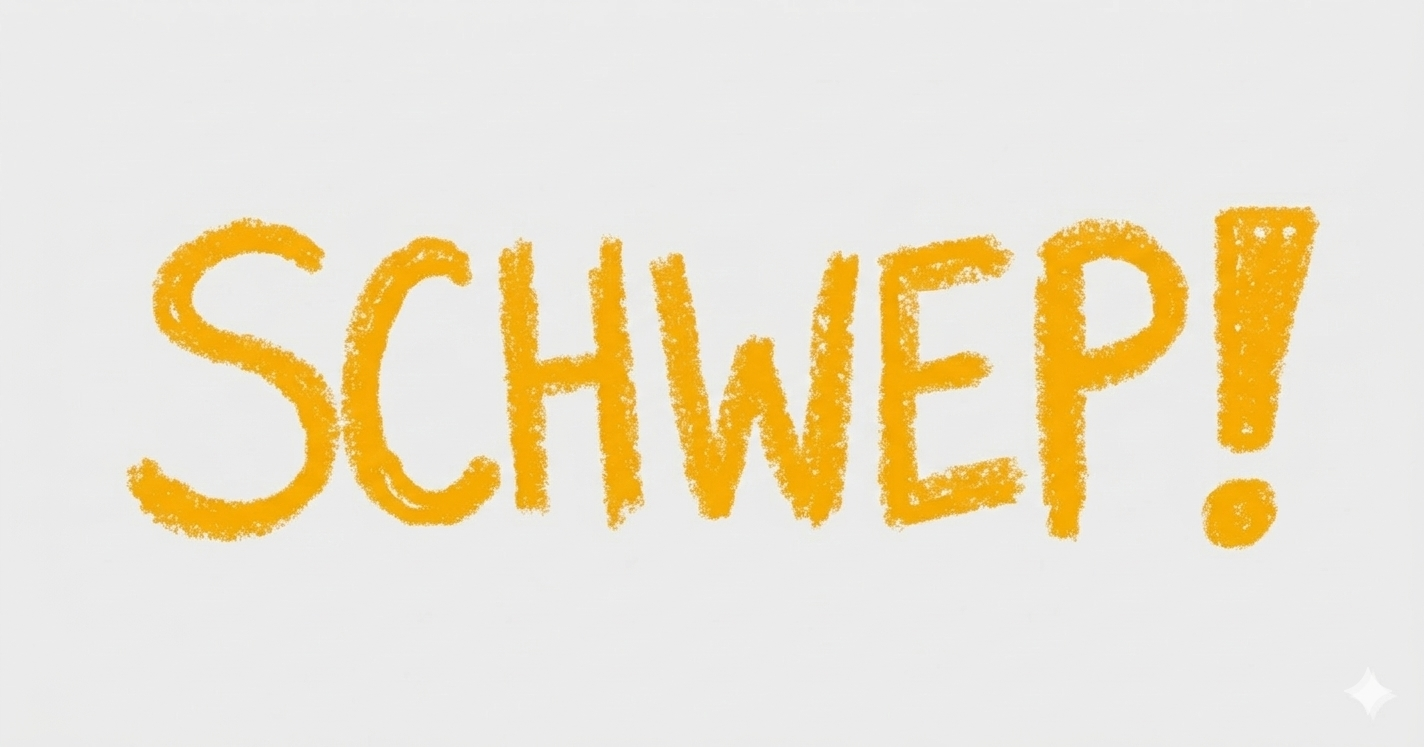
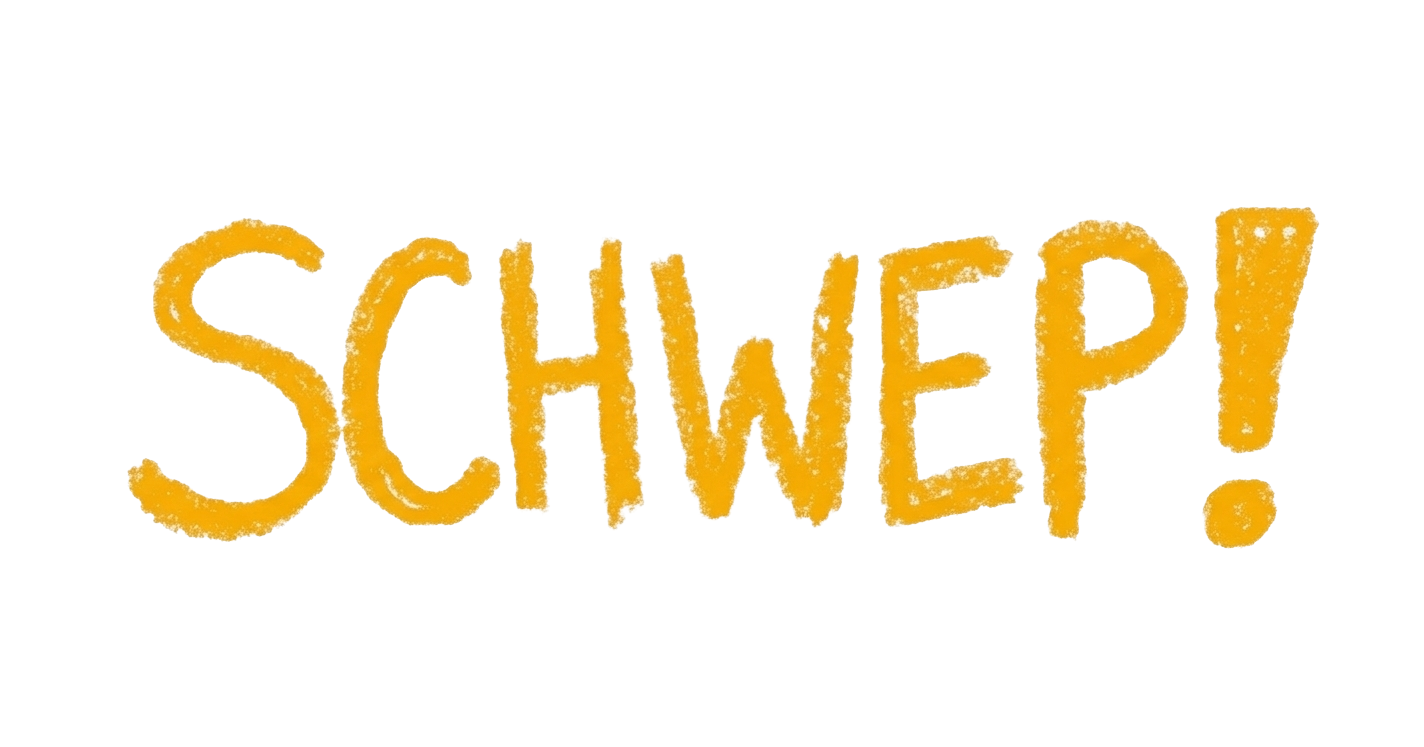
cant remember

diff --git a/frontend/index.html b/frontend/index.html
@@ -12,8 +12,8 @@
 <body>
   <!-- ═══ NAV ═══ -->
   <nav>
-    <div class="nav-logo">sch<span>w</span>ep</div>
-    <a class="nav-cta" href="#cta">Try It Free →</a>
+    <div class="nav-logo"><img src="assets/images/schwep.png" alt="schwep"></div>
+    <a class="nav-cta" href="signup.html">Try It Free →</a>
   </nav>
 
   <!-- ═══ HERO ═══ -->
@@ -256,8 +256,54 @@
 
   <!-- ═══ FOOTER ═══ -->
   <footer>
-    <div class="foot-logo">sch<span>w</span>ep</div>
+    <div class="foot-logo"><img src="assets/images/schwep.png" alt="schwep"></div>
     <div class="foot-copy">© 2024 Schwep. All rights reserved.</div>
   </footer>
+
+  <script>
+    // Smooth blimp scroll animation - no locking, just smooth movement
+    const blimp = document.querySelector('.hero-blimp');
+    const hero = document.querySelector('.hero');
+    
+    if (blimp && hero) {
+      // Blimp travel distance
+      const blimpStartX = -300;
+      const blimpEndX = window.innerWidth + 300;
+      const blimpDistance = blimpEndX - blimpStartX;
+      
+      // Scroll range where blimp moves (first 800px of scroll)
+      const scrollRange = 800;
+      
+      function updateBlimp() {
+        const scrollY = window.scrollY;
+        
+        // Calculate progress (0 to 1) based on scroll position
+        let progress = scrollY / scrollRange;
+        progress = Math.max(0, Math.min(1, progress)); // Clamp between 0 and 1
+        
+        // Calculate blimp X position
+        const currentX = blimpStartX + (blimpDistance * progress);
+        blimp.style.left = currentX + 'px';
+      }
+      
+      // Use requestAnimationFrame for smooth updates
+      let ticking = false;
+      function onScroll() {
+        if (!ticking) {
+          window.requestAnimationFrame(() => {
+            updateBlimp();
+            ticking = false;
+          });
+          ticking = true;
+        }
+      }
+      
+      // Listen to scroll events
+      window.addEventListener('scroll', onScroll, { passive: true });
+      
+      // Initial position
+      updateBlimp();
+    }
+  </script>
 </body>
 </html>

diff --git a/frontend/signup.html b/frontend/signup.html
@@ -23,14 +23,14 @@
 
 <div class="card">
   <div class="logo">
-    <div class="logo-text">sch<span>w</span>ep</div>
+    <div class="logo-text"><img src="assets/images/schwep.png" alt="schwep"></div>
     <div class="logo-tag">Create Account</div>
   </div>
   <div class="divider"></div>
   <h1 class="card-headline">Get <em>started</em></h1>
   <p class="card-sub">Create your account to begin extracting your design DNA</p>
 
-  <form>
+  <form onsubmit="event.preventDefault(); window.location.href='engine.html'; return false;">
     <div class="field">
       <label for="name">Full Name</label>
       <input type="text" id="name" name="name" placeholder="John Doe" required>
@@ -58,10 +58,10 @@
     <div class="or-line"></div>
   </div>
 
-  <button class="btn-google">
+  <a href="engine.html" class="btn-google" style="display: flex; align-items: center; justify-content: center; text-decoration: none;">
     <span class="g-icon"></span>
     Continue with Google
-  </button>
+  </a>
 
   <div class="switch-row">
     Already have an account? <a href="login.html">Sign in</a>

diff --git a/frontend/login.html b/frontend/login.html
@@ -23,14 +23,14 @@
 
 <div class="card">
   <div class="logo">
-    <div class="logo-text">sch<span>w</span>ep</div>
+    <div class="logo-text"><img src="assets/images/schwep.png" alt="schwep"></div>
     <div class="logo-tag">Sign In</div>
   </div>
   <div class="divider"></div>
   <h1 class="card-headline">Welcome <em>back</em></h1>
   <p class="card-sub">Sign in to continue to your account</p>
 
-  <form>
+  <form onsubmit="event.preventDefault(); window.location.href='engine.html'; return false;">
     <div class="field">
       <label for="email">Email</label>
       <input type="email" id="email" name="email" placeholder="you@example.com" required>
@@ -51,10 +51,10 @@
     <div class="or-line"></div>
   </div>
 
-  <button class="btn-google">
+  <a href="engine.html" class="btn-google" style="display: flex; align-items: center; justify-content: center; text-decoration: none;">
     <span class="g-icon"></span>
     Continue with Google
-  </button>
+  </a>
 
   <div class="switch-row">
     Don't have an account? <a href="signup.html">Create one</a>

diff --git a/frontend/engine.html b/frontend/engine.html
@@ -13,8 +13,6 @@
   <div class="sky"></div>
   
   <!-- Clouds -->
-  <img class="cloud cl-tl" src="assets/images/transparentcloud1.png" alt="Cloud">
-  <img class="cloud cl-tr" src="assets/images/transparentcloud2.png" alt="Cloud">
   <img class="cloud cl-bl" src="assets/images/transparentcloud1.png" alt="Cloud">
   <img class="cloud cl-br" src="assets/images/transparentcloud2.png" alt="Cloud">
   <img class="cloud cl-ml" src="assets/images/transparentcloud1.png" alt="Cloud">
@@ -22,7 +20,7 @@
 
   <!-- HUD -->
   <div class="hud">
-    <div class="hud-logo">sch<span>w</span>ep</div>
+    <div class="hud-logo"><img src="assets/images/schwep.png" alt="schwep"></div>
     <div class="track-wrap">
       <div class="track-line"></div>
       <div class="track-stops">

diff --git a/frontend/assets/css/landing.css b/frontend/assets/css/landing.css
@@ -168,12 +168,14 @@ body {
 
 .hero-blimp {
   position: absolute;
-  bottom: 30px; right: 0;
+  bottom: 30px;
+  left: -300px;
   width: 220px;
   mix-blend-mode: multiply;
   filter: drop-shadow(4px 6px 0 rgba(255,77,0,0.15));
   animation: blimpDrift 8s ease-in-out infinite;
   pointer-events: none;
+  transition: left 0.1s linear;
 }
 
 @keyframes blimpDrift {

diff --git a/frontend/assets/css/shared.css b/frontend/assets/css/shared.css
@@ -85,6 +85,12 @@ nav {
   color: var(--orange);
 }
 
+.nav-logo img {
+  height: 48px;
+  width: auto;
+  display: block;
+}
+
 .nav-cta {
   background: var(--black);
   color: var(--white);
@@ -126,6 +132,12 @@ footer {
 
 .foot-logo span {
   color: var(--orange);
+}
+
+.foot-logo img {
+  height: 36px;
+  width: auto;
+  display: block;
 }
 
 .foot-copy {

diff --git a/frontend/assets/css/auth.css b/frontend/assets/css/auth.css
@@ -166,6 +166,13 @@ body::after {
 
 .logo-text span { color: var(--orange); }
 
+.logo-text img {
+  height: 56px;
+  width: auto;
+  display: block;
+  margin: 0 auto;
+}
+
 .logo-tag {
   display: inline-block;
   font-size: 0.6rem;

diff --git a/frontend/assets/css/engine.css b/frontend/assets/css/engine.css
@@ -138,6 +138,13 @@ html, body {
   color: var(--orange);
 }
 
+.hud-logo img {
+  height: 42px;
+  width: auto;
+  display: block;
+  opacity: .85;
+}
+
 .track-wrap {
   flex: 1;
   max-width: 460px;
